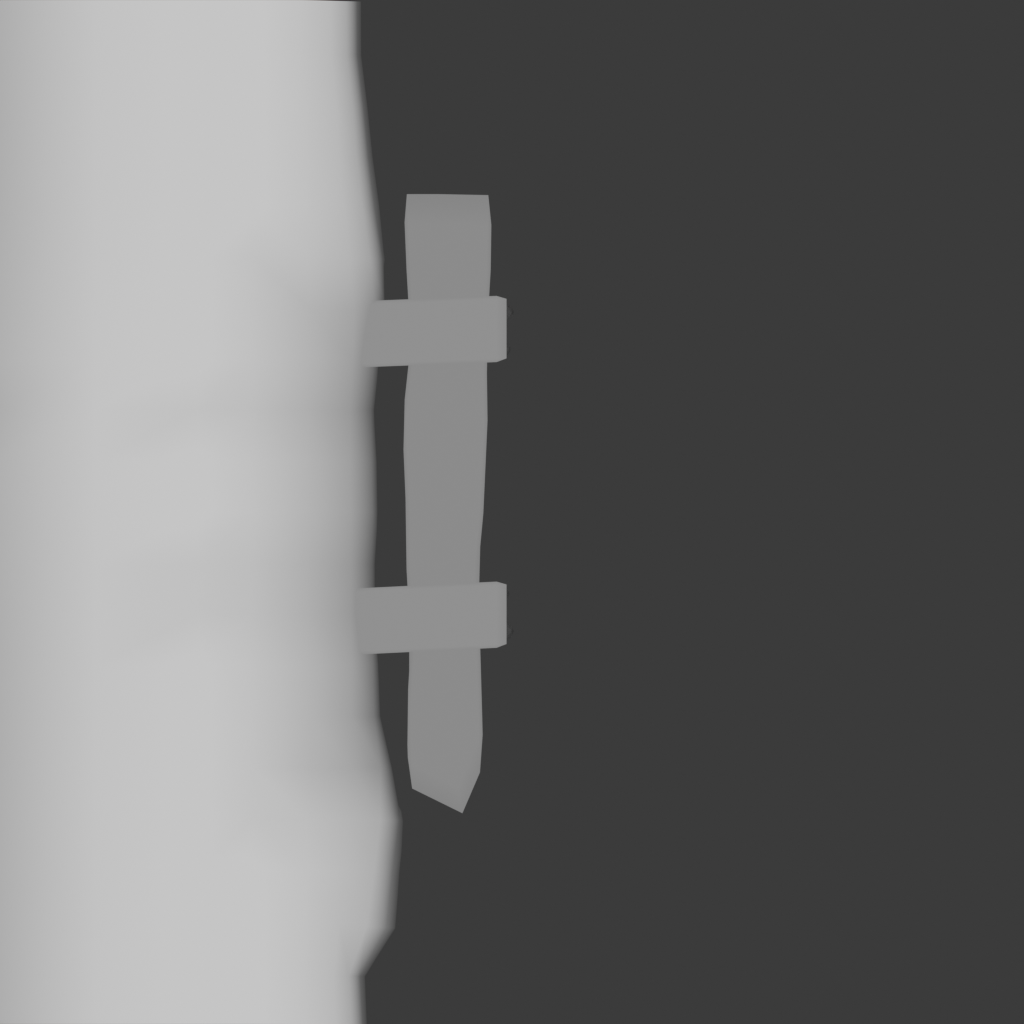
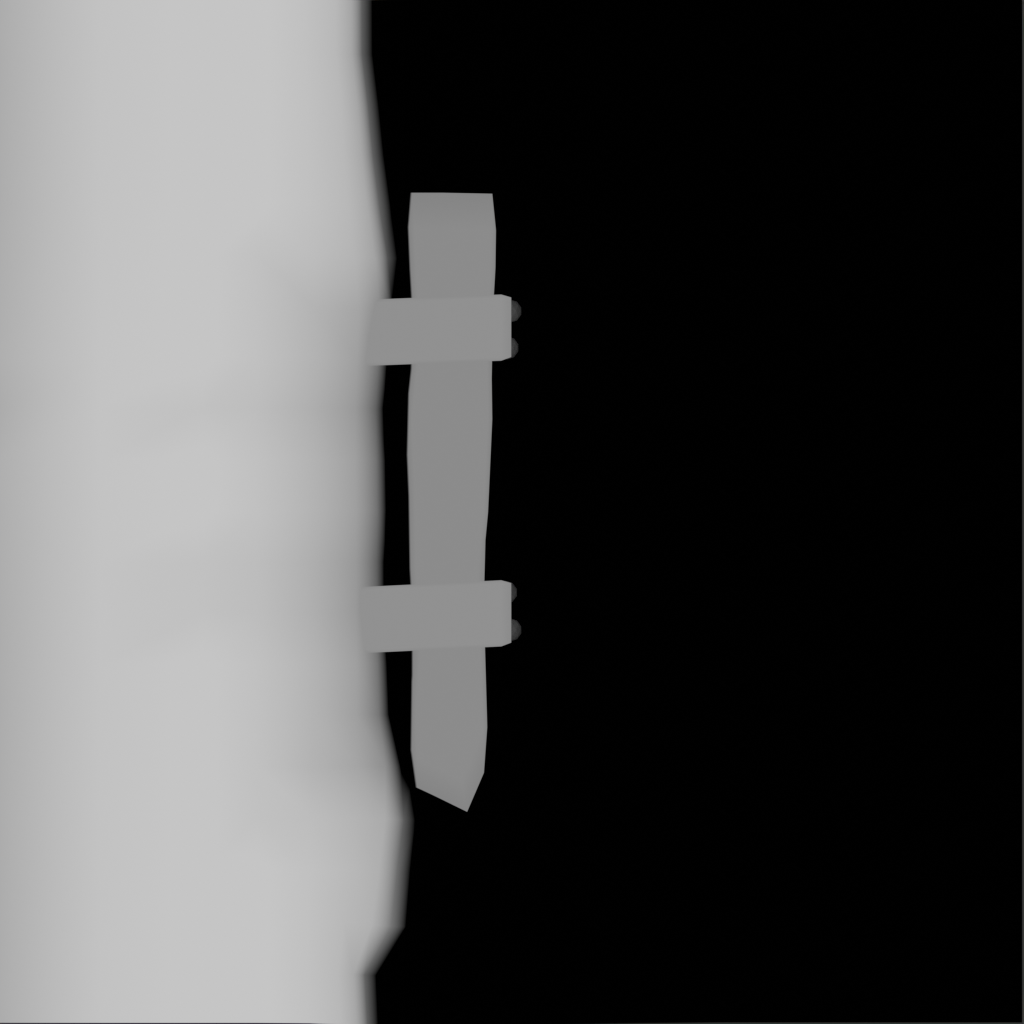
First attempt at Mine dynamic lighting based on heightmaps

diff --git a/Assets/Scripts/Lighting/ShroomLightingService.cs b/Assets/Scripts/Lighting/ShroomLightingService.cs
@@ -9,10 +9,10 @@ public class ShroomLightingService : MonoService
 {
     private List<ShroomLight> _lights = new List<ShroomLight>();
     private static readonly int ShroomLightPositionsGlobalId = Shader.PropertyToID("ShroomLightPositions");
-    private static readonly int ShroomLightInnerRadiusAndIntensityGlobalId = Shader.PropertyToID("ShroomLightInnerRadiusAndIntensity");
+    private static readonly int ShroomLightRadiusAndIntensityGlobalId = Shader.PropertyToID("ShroomLightRadiusAndIntensity");
     private static readonly int ShroomLightColorsGlobalId = Shader.PropertyToID("ShroomLightColors");
 
-    public const int MAX_LIGHT_COUNT = 10;
+    public const int MAX_LIGHT_COUNT = 5;
     
     public void RegisterLight(ShroomLight light)
     {
@@ -46,14 +46,23 @@ public class ShroomLightingService : MonoService
             //Debug.Log(pos);
             positions.Add(pos);
 
-            //Encode values in vec to save shader keywords
+            //Encode values in vec to save shader keywords. TODO: could use w for something
             radiusAndIntensity.Add(new Vector4(shroomLight.InnerRadius, shroomLight.OuterRadius, shroomLight.Intensity, 0));
             colors.Add(new Vector4(shroomLight.Color.r, shroomLight.Color.g, shroomLight.Color.b, shroomLight.Color.a));
         }
 
+        //Global arrays must always be the same size.
+        //So we have empty values
+        while (_lights.Count < MAX_LIGHT_COUNT)
+        {
+            positions.Add(Vector4.zero);
+            radiusAndIntensity.Add(Vector4.zero);
+            colors.Add(Color.white);
+        }
+
         //Set light parameters
         Shader.SetGlobalVectorArray(ShroomLightPositionsGlobalId, positions);
-        Shader.SetGlobalVectorArray(ShroomLightInnerRadiusAndIntensityGlobalId, radiusAndIntensity);
+        Shader.SetGlobalVectorArray(ShroomLightRadiusAndIntensityGlobalId, radiusAndIntensity);
         Shader.SetGlobalVectorArray(ShroomLightColorsGlobalId, colors);
     }
 }

diff --git a/Assets/Scripts/WorldColors.cs b/Assets/Scripts/WorldColors.cs
@@ -11,10 +11,7 @@ public class WorldColors : MonoBehaviour
     
     void Start()
     {
-        Shader.SetGlobalColor("FogColor", _fogColor);
-        Shader.SetGlobalFloat("FogStart", _fogStart);
-        Shader.SetGlobalFloat("FogDistance", _fogDistance);
-        Shader.SetGlobalColor("ShadowsColor", _shadowsColor);
+        SetColors();
     }
 
     //  
@@ -29,6 +26,7 @@ public class WorldColors : MonoBehaviour
         Shader.SetGlobalFloat("FogStart", _fogStart);
         Shader.SetGlobalFloat("FogDistance", _fogDistance);
         Shader.SetGlobalColor("ShadowsColor", _shadowsColor);
+        Camera.main.backgroundColor = _fogColor;
     }
 
     private void OnValidate()
